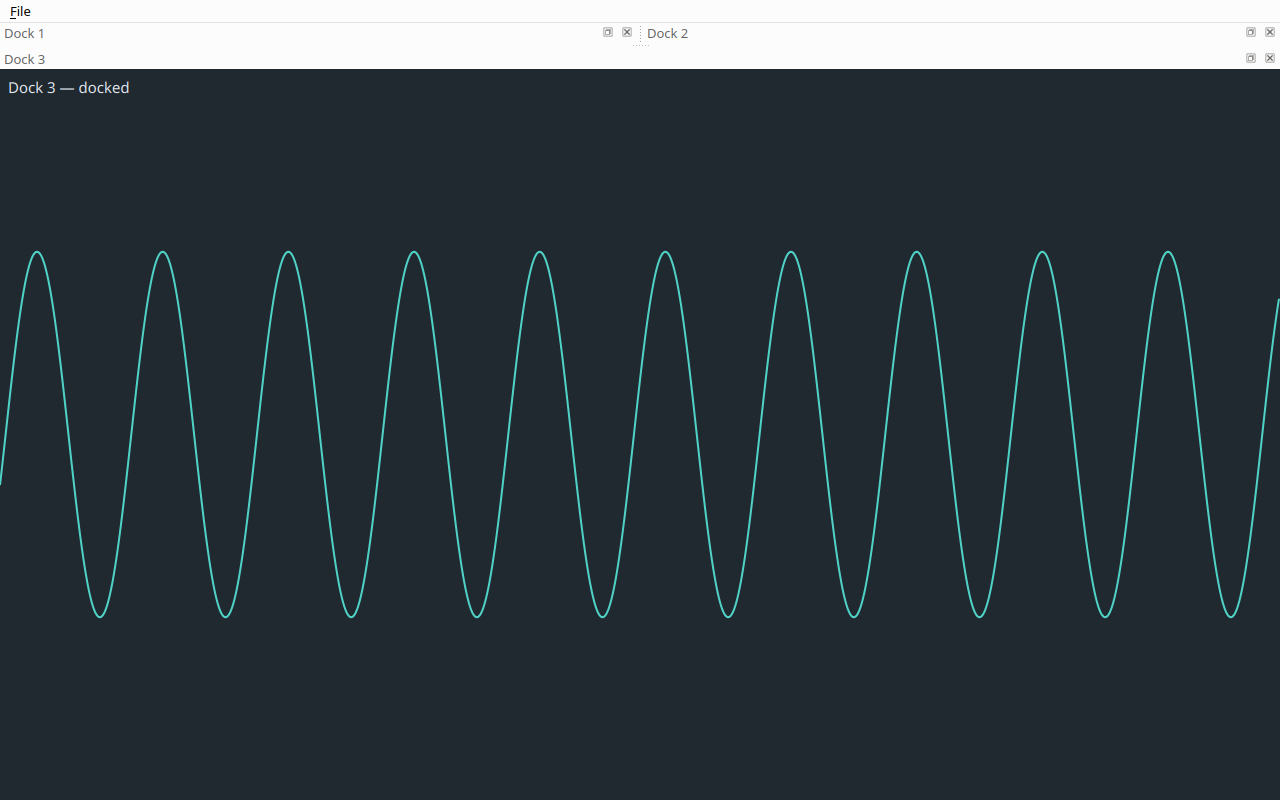
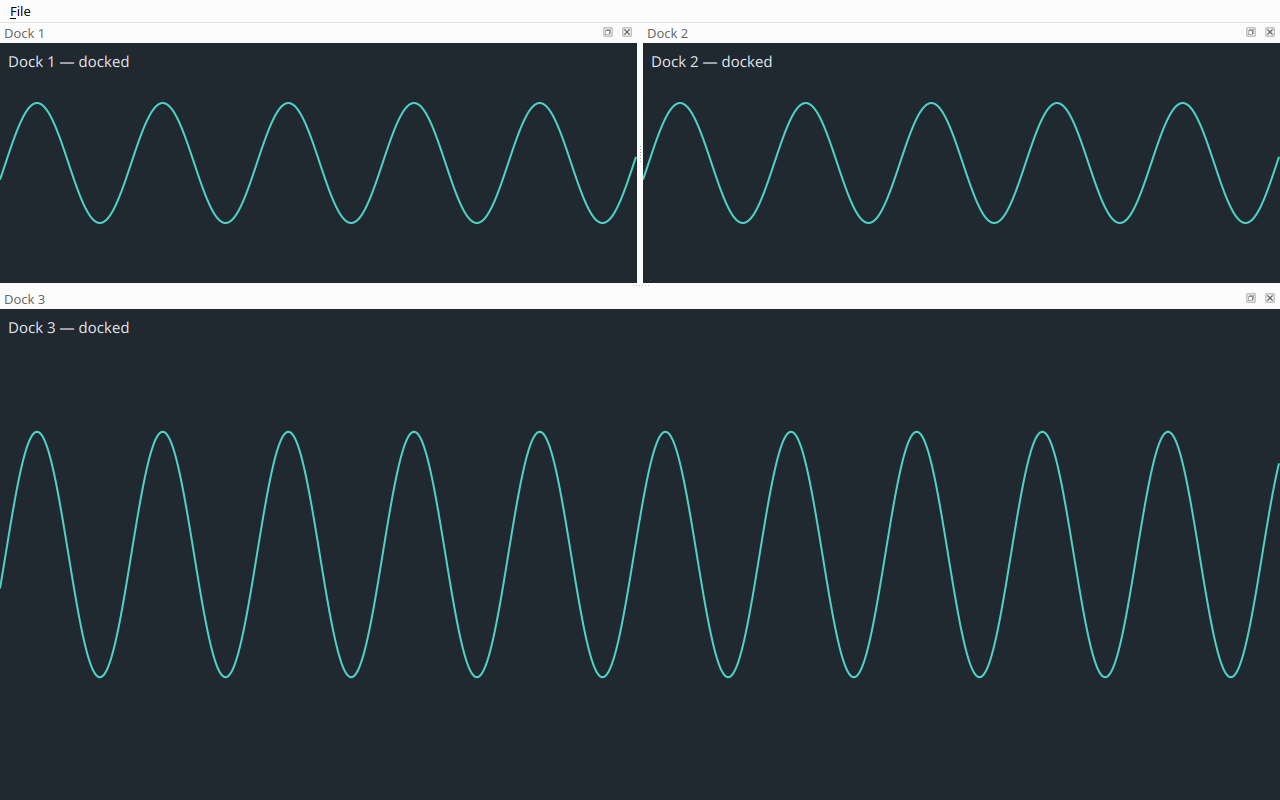
spike: add check 3 — context menu across widgets/quick boundary
Wires the QML MouseArea signal contextMenuRequested(point) to a C++
QMenu-building slot. On right-click in any dock's QML content, the
slot:
  1. Uses QObject::sender() to identify which QQuickWidget originated
     the signal and maps the QML-local point to global screen coords.
  2. Shows a non-modal QMenu (via popup(), not exec()) with Action A
     and Action B. Non-modal is required so the auto-check can poll
     QApplication::activePopupWidget() and drive the menu.
  3. Action triggers record last_chosen_action_ for verification.
  4. aboutToHide → deleteLater cleans up each menu instance.

--auto-check 3 drives all three docks: for each, it sends a
QTest::mouseClick(RightButton) at the widget center, polls up to
500 ms for activePopupWidget, snapshots the menu open state on
Dock 2, triggers action[0] ("Action A") programmatically, and
verifies both last_chosen_action_ and that the popup cleared.

Supporting fix: QQuickWidget now gets setMinimumSize(320,240). Without
this, an auto-check at startup saw Dock 1 with a QQuickWidget height
of 0 (layout had not computed sizes yet) — first attempt clicked at
y=0 and hit nothing. Added a layout-settle loop that polls qw->size()
for up to 2 s before starting. Re-ran Check 1 to confirm no regression.

Local run under xvfb: all three docks pass, one screenshot captured
mid-popup (1280x800 PNG), zero concerning warnings.

diff --git a/tools/spike/qquick_dock_test/main_window.cpp b/tools/spike/qquick_dock_test/main_window.cpp
@@ -50,6 +50,7 @@ QDockWidget* MainWindow::make_dock(std::size_t index, Qt::DockWidgetArea /*area*
 
     auto* qw = new QQuickWidget(dock);
     qw->setResizeMode(QQuickWidget::SizeRootObjectToView);
+    qw->setMinimumSize(320, 240);
     qw->rootContext()->setContextProperty(QStringLiteral("_initialDockId"), label);
     qw->setSource(QUrl(QStringLiteral("qrc:/qml/DockContent.qml")));
 
@@ -73,6 +74,14 @@ QDockWidget* MainWindow::make_dock(std::size_t index, Qt::DockWidgetArea /*area*
         qDebug().nospace() << "[spike] " << label << " topLevelChanged floating=" << floating;
     });
 
+    if (auto* root = qw->rootObject()) {
+        const bool ok = QObject::connect(root, SIGNAL(contextMenuRequested(QPointF)), this,
+                                         SLOT(on_context_menu_requested(QPointF)));
+        if (!ok) {
+            qWarning() << "[spike] failed to connect contextMenuRequested for" << label;
+        }
+    }
+
     return dock;
 }
 
@@ -88,6 +97,41 @@ void MainWindow::build_menu_bar() {
     auto* quit_action = file_menu->addAction(QStringLiteral("&Quit"));
     quit_action->setShortcut(QKeySequence::Quit);
     QObject::connect(quit_action, &QAction::triggered, this, &QMainWindow::close);
+}
+
+void MainWindow::on_context_menu_requested(const QPointF& pos) {
+    // Identify the source QQuickWidget via the sender root item.
+    auto* src_root = qobject_cast<QQuickItem*>(sender());
+    QQuickWidget* source_qw = nullptr;
+    for (auto* qw : quick_widgets_) {
+        if (qw != nullptr && qw->rootObject() == src_root) {
+            source_qw = qw;
+            break;
+        }
+    }
+    if (source_qw == nullptr) {
+        qWarning() << "[spike] context menu sender not matched to a QQuickWidget";
+        return;
+    }
+
+    const QPoint widget_local = pos.toPoint();
+    const QPoint global = source_qw->mapToGlobal(widget_local);
+
+    auto* menu = new QMenu(this);
+    auto* action_a = menu->addAction(QStringLiteral("Action A"));
+    auto* action_b = menu->addAction(QStringLiteral("Action B"));
+    QObject::connect(action_a, &QAction::triggered, this, [this]() {
+        last_chosen_action_ = QStringLiteral("Action A");
+        qDebug() << "[spike] context menu triggered: Action A";
+    });
+    QObject::connect(action_b, &QAction::triggered, this, [this]() {
+        last_chosen_action_ = QStringLiteral("Action B");
+        qDebug() << "[spike] context menu triggered: Action B";
+    });
+    QObject::connect(menu, &QMenu::aboutToHide, menu, &QObject::deleteLater);
+
+    qDebug().nospace() << "[spike] showing context menu at global=" << global.x() << "," << global.y();
+    menu->popup(global);  // non-modal so --auto-check can drive it
 }
 
 void MainWindow::toggle_dock1_visibility() {
@@ -107,6 +151,7 @@ int MainWindow::run_auto_check(int check_id, bool short_variant) {
     case 2:
         return run_check_2_hidpi();
     case 3:
+        return run_check_3_context_menu();
     case 4:
     case 5:
         qWarning() << "[spike] Check" << check_id << "not yet implemented in this subtask";
@@ -182,6 +227,85 @@ int MainWindow::run_check_2_hidpi() {
     // external scrot invocation (~1.8 s in) to capture the focused window.
     QTest::qWait(3000);
 
+    return 0;
+}
+
+int MainWindow::run_check_3_context_menu() {
+    // Wait for the MainWindow's layout to settle so QQuickWidgets have non-zero
+    // usable geometry. Without this, an auto-check at startup sees dock widgets
+    // still being laid out and hits y=0.
+    for (int wait_budget = 0; wait_budget < 2000; wait_budget += 50) {
+        bool all_sized = true;
+        for (auto* qw : quick_widgets_) {
+            if (qw == nullptr || qw->width() < 100 || qw->height() < 100) {
+                all_sized = false;
+                break;
+            }
+        }
+        if (all_sized) {
+            break;
+        }
+        QTest::qWait(50);
+    }
+
+    for (std::size_t i = 0; i < quick_widgets_.size(); ++i) {
+        QQuickWidget* qw = quick_widgets_[i];
+        if (qw == nullptr) {
+            qWarning() << "[check3] dock" << (i + 1) << "missing";
+            return 2;
+        }
+        qDebug().nospace() << "[check3] dock " << (i + 1) << " size=" << qw->width() << "x" << qw->height();
+        last_chosen_action_.clear();
+
+        const QPoint center = qw->rect().center();
+        qDebug().nospace() << "[check3] dock " << (i + 1) << " right-click at local " << center.x() << ","
+                           << center.y();
+        QTest::mouseClick(qw, Qt::RightButton, Qt::NoModifier, center);
+
+        // Poll for the menu to show (non-modal popup).
+        const int kPollBudgetMs = 500;
+        int waited_ms = 0;
+        while (waited_ms < kPollBudgetMs && QApplication::activePopupWidget() == nullptr) {
+            QTest::qWait(20);
+            waited_ms += 20;
+        }
+        auto* popup = QApplication::activePopupWidget();
+        if (popup == nullptr) {
+            qWarning() << "[check3] dock" << (i + 1) << "popup did not appear within" << kPollBudgetMs << "ms";
+            return 1;
+        }
+
+        // Snap a screenshot of the menu open on the middle dock (i == 1).
+        if (i == 1) {
+            save_screenshot(QStringLiteral("check3-menu-screenshot.png"));
+        }
+
+        auto* menu = qobject_cast<QMenu*>(popup);
+        if (menu == nullptr) {
+            qWarning() << "[check3] dock" << (i + 1) << "popup is not a QMenu:" << popup;
+            return 1;
+        }
+        const auto actions = menu->actions();
+        if (actions.size() != 2 || actions[0]->text() != QStringLiteral("Action A")) {
+            qWarning() << "[check3] dock" << (i + 1) << "unexpected actions count=" << actions.size();
+            return 1;
+        }
+
+        actions[0]->trigger();
+        menu->hide();
+        QTest::qWait(200);
+
+        if (last_chosen_action_ != QStringLiteral("Action A")) {
+            qWarning() << "[check3] dock" << (i + 1) << "last_chosen_action_ mismatch, got:" << last_chosen_action_;
+            return 1;
+        }
+
+        if (QApplication::activePopupWidget() != nullptr) {
+            qWarning() << "[check3] dock" << (i + 1) << "popup still active after trigger";
+            return 1;
+        }
+        qDebug() << "[check3] dock" << (i + 1) << "pass";
+    }
     return 0;
 }
 

diff --git a/tools/spike/qquick_dock_test/main_window.hpp b/tools/spike/qquick_dock_test/main_window.hpp
@@ -25,6 +25,7 @@ public:
 
 private slots:
     void toggle_dock1_visibility();
+    void on_context_menu_requested(const QPointF& pos);
 
 private:
     void build_docks();
@@ -33,10 +34,12 @@ private:
 
     int run_check_1_floating();
     int run_check_2_hidpi();
+    int run_check_3_context_menu();
     bool save_screenshot(const QString& filename);
 
     std::array<QDockWidget*, 3> docks_{};
     std::array<QQuickWidget*, 3> quick_widgets_{};
+    QString last_chosen_action_{};
 };
 
 }  // namespace signalforge::spike
